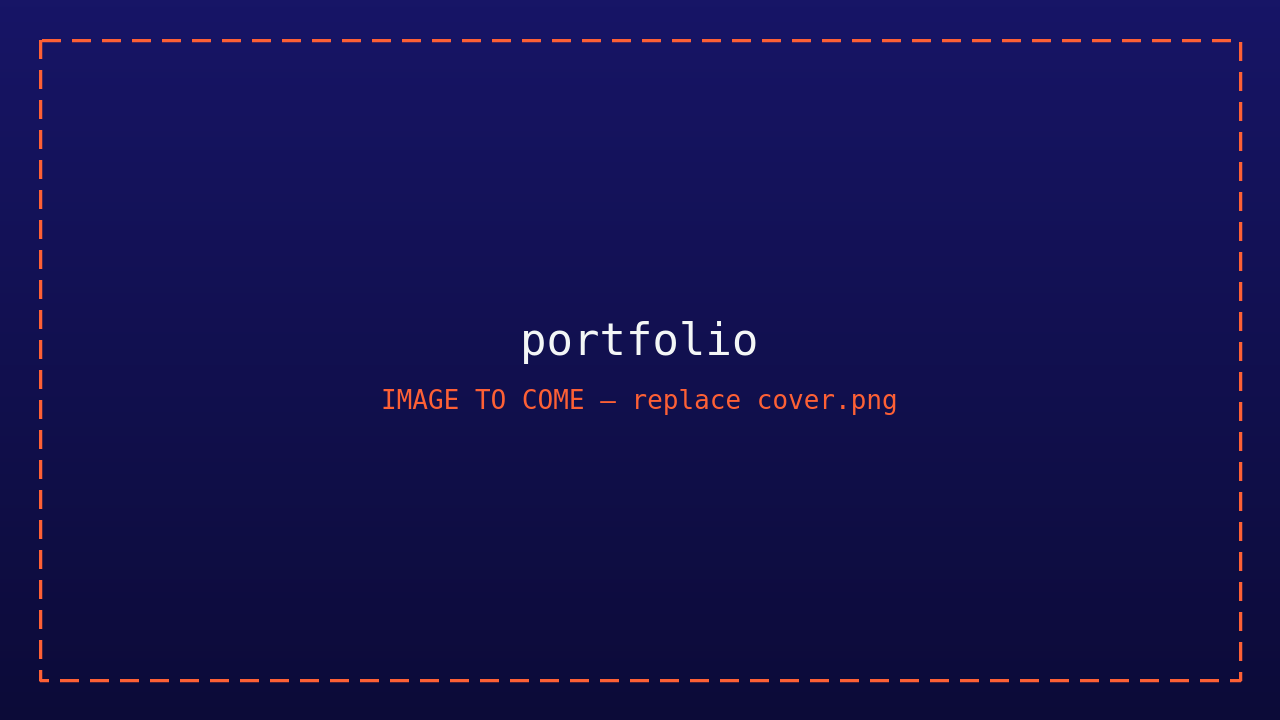
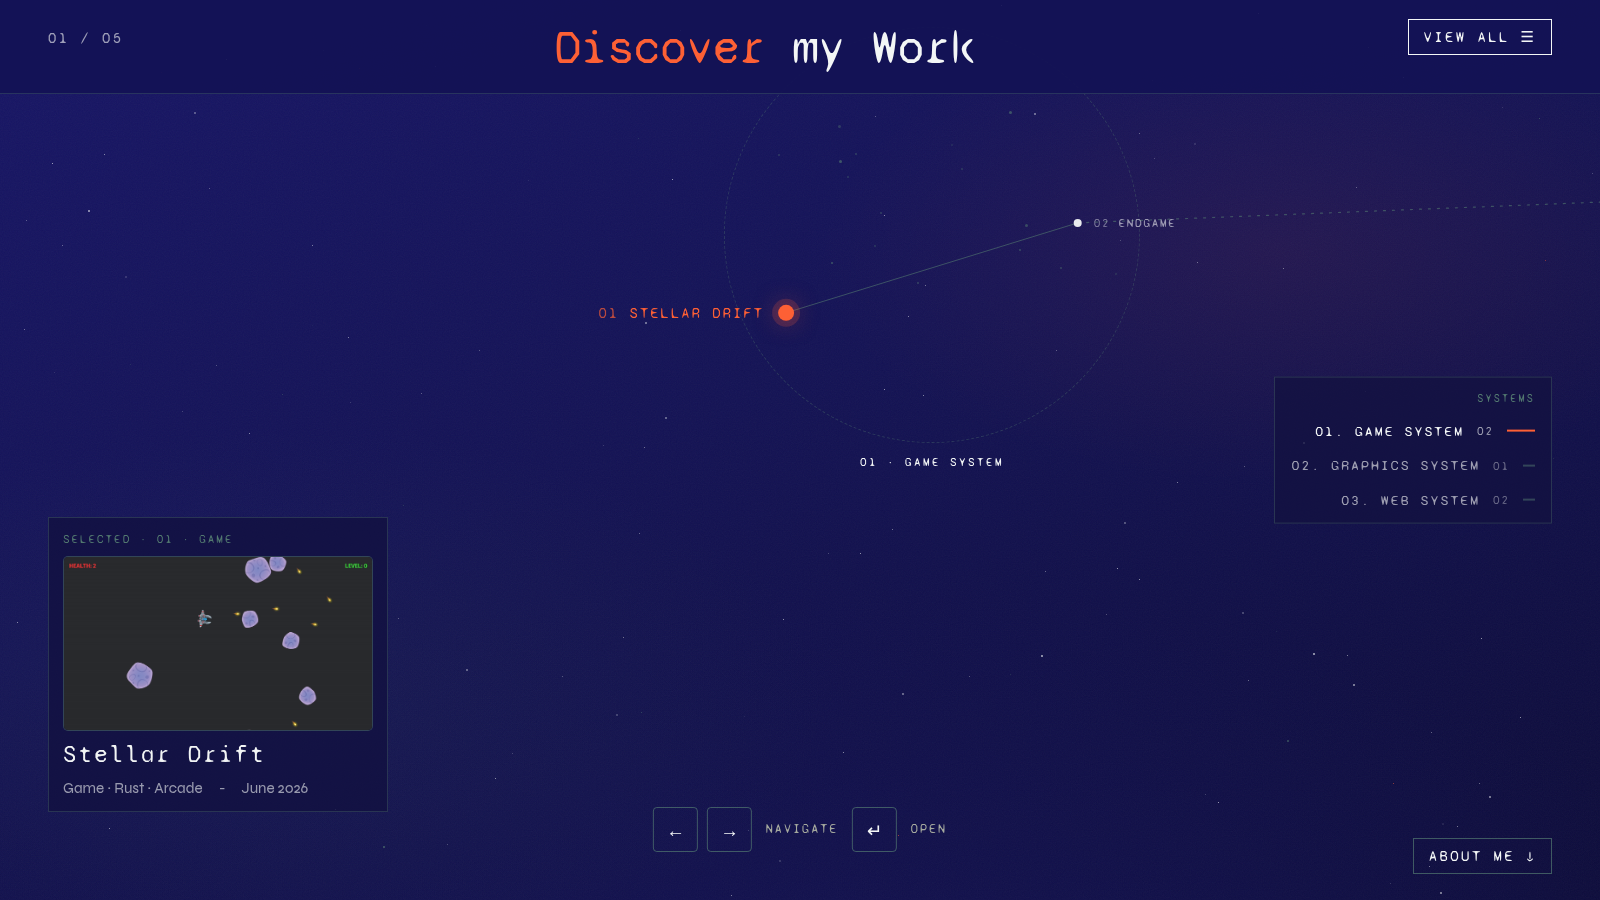
modif: placeholders visibles, ficelo.dev in progress avec anneau blanc, cover provisoire de la star map

diff --git a/src/data/projects.ts b/src/data/projects.ts
@@ -9,7 +9,7 @@ import ftChat from '../assets/ft-transcendence/chat.png'
 import ftPrivacy from '../assets/ft-transcendence/privacy-policy.png'
 import ftGame from '../assets/ft-transcendence/game.png'
 import ftWin from '../assets/ft-transcendence/win.png'
-// TODO (Théophile) : remplacer les cover.png provisoires par les vraies images
+// TODO (Théophile) : remplacer les cover.png provisoires d'Endgame et Scop par les vraies images
 // (même nom, ou changer l'extension ici si c'est un .gif / .jpg).
 import egCover from '../assets/endgame/cover.png'
 import scopCover from '../assets/scop/cover.png'
@@ -134,18 +134,18 @@ export const projects: Project[] = [
 		slug: "scop",
 		title: "Scop",
 		// TODO (Théophile) : texte à écrire.
-		description: "TODO — A 42 project: loading and displaying a textured 3D object with Rust and Vulkan.",
+		description: "[PLACEHOLDER] A 42 project: loading and rendering a textured 3D object with Rust and Vulkan.",
 		longDescription: `
 			<p>
 				<em>This project is part of the 42 curriculum.</em><br>
 				<br>
-				TODO — description du projet.<br>
+				[PLACEHOLDER] A graphics project from the 42 curriculum: loading a 3D object and rendering it with Vulkan, written in Rust. Full write-up coming soon.<br>
 			</p>`,
 		category: "Graphics",
 		tag: "Graphics  ·  Rust  ·  Vulkan",
 		year: "2026",
 		// TODO Théophile : pitch, contexte (solo ?), durée, highlights
-		pitch: "TODO — Loading and rendering a textured 3D object from scratch, with Rust and Vulkan.",
+		pitch: "[PLACEHOLDER] Loading and rendering a textured 3D object from scratch, with Rust and Vulkan.",
 		context: "42 curriculum",
 		stack: ["Rust", "Vulkan"],
 		planet: { seed: 7, signature: "teapot" },
@@ -194,21 +194,22 @@ export const projects: Project[] = [
 		slug: "portfolio",
 		title: "ficelo.dev",
 		// TODO (Théophile) : texte à écrire (garder la phrase de transparence sur la refonte).
-		description: "TODO — This portfolio: a scroll-driven star map built with Astro.",
+		description: "[PLACEHOLDER] This portfolio: a scroll-driven star map built with Astro.",
 		longDescription: `
 			<p>
-				TODO — description du projet.<br>
+				[PLACEHOLDER] The site you are browsing: projects laid out as a space map you travel through by scrolling, built with Astro. Full write-up coming soon.<br>
 				<br>
 				<em>I built the first version on my own. The 2026 redesign was developed with an AI coding assistant (Claude Code), from my design and direction.</em><br>
 			</p>`,
 		category: "Web",
 		tag: "Web  ·  Astro  ·  TypeScript",
 		year: "May 2026",
-		// TODO Théophile : pitch, durée, highlights ; anneaux blancs prévus (le moteur les dessine en orange pour l'instant)
-		pitch: "TODO — This portfolio: a scroll-driven star map, built with Astro.",
+		// TODO Théophile : pitch, durée, highlights
+		pitch: "[PLACEHOLDER] This portfolio: a scroll-driven star map, built with Astro.",
 		context: "Solo · personal project",
 		stack: ["Astro", "TypeScript"],
 		planet: { seed: 9, signature: "beacon", rings: 1 },
+		inProgress: true,
 		image: pfCover,
 		alt: "The star map of the portfolio",
 		links: { github: "https://github.com/ficeloo/ficeloo.github.io" },

diff --git a/src/scripts/project-planet.ts b/src/scripts/project-planet.ts
@@ -82,6 +82,7 @@ interface Scene {
 	ctx: CanvasRenderingContext2D;
 	system: System;
 	color: RGB;
+	ringColor: RGB;
 	wip: boolean;
 	rnd: () => number;
 	W: number; H: number; R: number;
@@ -121,6 +122,7 @@ function setup(box: HTMLElement): Scene {
 	const s: Scene = {
 		box, cv, ctx: cv.getContext('2d')!, system,
 		color: rootStyle.getPropertyValue(`--planet-${ds.slug}`) ? token(`--planet-${ds.slug}`) : C.secondary, // projet sans token : vert-gris du site
+		ringColor: rootStyle.getPropertyValue(`--planet-${ds.slug}-ring`) ? token(`--planet-${ds.slug}-ring`) : C.accent, // anneaux Web : orange par défaut
 		wip: 'wip' in ds, rnd,
 		W: 0, H: 0, R: 0, cx: 0, cy: 0,
 		orbitStart: 'belt' in ds ? 0.78 : 0.72,
@@ -393,7 +395,7 @@ function drawRings(s: Scene, time: number, front: boolean) {
 			prev = ok;
 		}
 		c.setLineDash([16, 9]); c.lineDashOffset = -g.dir * t0 * g.speed;
-		c.strokeStyle = rgba(C.accent, front ? 0.85 : 0.25); c.lineWidth = 2.2; c.stroke();
+		c.strokeStyle = rgba(s.ringColor, front ? 0.85 : 0.25); c.lineWidth = 2.2; c.stroke();
 		c.setLineDash([]);
 	});
 }

diff --git a/src/styles/tokens.css b/src/styles/tokens.css
@@ -38,6 +38,7 @@
 	--planet-scop: #4a6fc4;
 	--planet-ft_transcendence: #4f8c80;
 	--planet-portfolio: #c4643f;
+	--planet-portfolio-ring: #F3F6F6; /* anneaux Web : --planet-<slug>-ring (orange --color-accent si absent) */
 
 	/* Grain */
 	--grain-opacity: 0.05;
